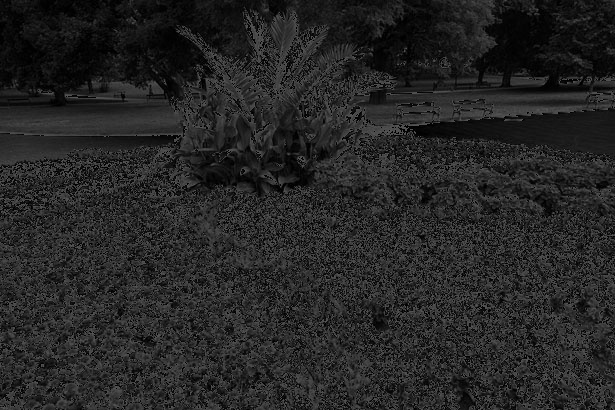
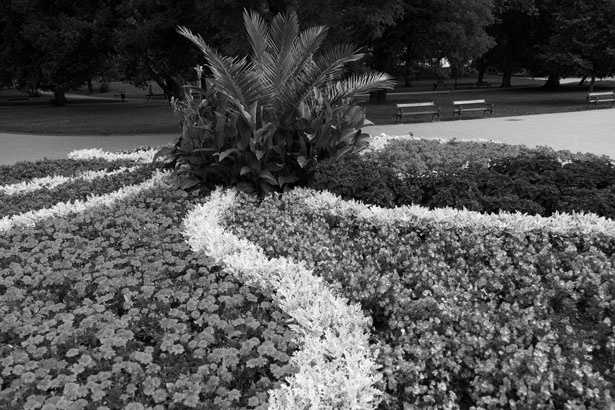
Works better but still not good

diff --git a/test of git.py b/test of git.py
@@ -9,81 +9,182 @@ height, width,  channels = image.shape
 outputForHValue = np.zeros((height, width, channels), np.uint8)
 outputForSValue = np.zeros((height, width, channels), np.uint8)
 outputForIValue = np.zeros((height, width, channels), np.uint8)
+outputForHSIValue = np.zeros((height, width, channels), np.uint8)
 
 imageData = np.asarray(image)
 
-def calculateH():
+# def calculateH():
+#     for i in range(len(imageData)):
+#         for j in range(len(imageData[0])):
+#             pixel = imageData[i][j]
+#             B = pixel[0]
+#             G = pixel[1]
+#             R = pixel[2]
+#              test1 = (R-G)+(R-B)
+#              if test1 > 0:
+#                  test1 = test1 / 2
+#              else:
+#                  test1 = 1
+#                  test1 = test1 / 2
+#              if test1 > 0 and math.sqrt(math.pow(R - G, 2) + (R - B) * (G - B)) > 0:
+#                  test1 = test1 / math.sqrt(math.pow(R - G, 2) + (R - B) * (G - B))
+#              else:
+#                  test1 = 1
+#                  test1 = test1 / (math.sqrt(math.pow(R - G, 2) + (R - B) * (G - B))+1)
+#              if test1 > 0:
+#                  test1 = test1/360
+#              else:
+#                  test1 = 1
+#                  test1 = test1 / 360
+#
+#              hAngle = math.degrees(math.acos(test1))
+#
+#
+#              hValue= 0
+#              if B <= G:
+#                  hValue = hAngle
+#              elif G<B:
+#                  hValue = 360-hAngle
+#              else:
+#                  hValue = 0
+#             outputForHValue[i, j, 0] = hValue
+#             outputForHValue[i, j, 1] = hValue
+#             outputForHValue[i, j, 2] = hValue
+#
+#
+# def calculateS():
+#     for i in range(len(imageData)):
+#         for j in range(len(imageData[0])):
+#             pixel = imageData[i][j]
+#             B = pixel[0]
+#             G = pixel[1]
+#             R = pixel[2]
+#             sValue = 1-(3*min(R, G, B))
+#             outputForSValue[i, j, 0] = sValue
+#             outputForSValue[i, j, 1] = sValue
+#             outputForSValue[i, j, 2] = sValue
+#
+#
+# def calculateI():
+#     for i in range(len(imageData)):
+#         for j in range(len(imageData[0])):
+#             pixel = imageData[i][j]
+#             B = pixel[0]
+#             G = pixel[1]
+#             R = pixel[2]
+#             iValue = (R+G+B)/3
+#             outputForIValue[i, j, 0] = iValue
+#             outputForIValue[i, j, 1] = iValue
+#             outputForIValue[i, j, 2] = iValue
+#
+#
+# calculateH()
+# calculateS()
+# calculateI()
+#math.acos(((R - G) + (R - B) / 2) / (math.sqrt(math.pow(R - G, 2) + ((R - B) * (G - B)))))
+
+
+def calculateH(R, G, B):
+    test1 = (R - G) + (R - B)
+    if test1 > 0:
+        test1 = test1 / 2
+    else:
+        test1 = 1
+        test1 = test1 / 2
+    if test1 > 0 and math.sqrt(math.pow(R - G, 2) + (R - B) * (G - B)) > 0:
+        test1 = test1 / math.sqrt(math.pow(R - G, 2) + (R - B) * (G - B))
+    else:
+        test1 = 1
+        test1 = test1 / (math.sqrt(math.pow(R - G, 2) + (R - B) * (G - B)) + 1)
+    if test1 > 0:
+        test1 = test1 / 360
+    else:
+        test1 = 1
+        test1 = test1 / 360
+
+    hAngle = math.degrees(test1)
+    hValue = hAngle
+    # if B <= G:
+    #     hValue = hAngle
+    # elif G < B:
+    #     hValue = 360 - hAngle
+    # else:
+    #     hValue = 0
+
+    return hValue
+
+    # if s == 0:
+    #     return 0
+    #
+    # elif rgbMax == R:
+    #     return (G-B)/(rgbMax-rgbMin)
+    #
+    # elif rgbMax == G:
+    #     return 2.0 + (B-R)/(rgbMax-rgbMin)
+    #
+    # elif rgbMax == B:
+    #     return 4.0 + (R-G)/(rgbMax-rgbMin)
+    #
+    # else:
+    #     return 0
+
+
+# def calculateS(i, rgbMin, rgbMax):
+#     if rgbMin == rgbMax:
+#         return 0
+#
+#     elif i < 0.5:
+#         return (rgbMax-rgbMin)/(rgbMax+rgbMin)
+#
+#     elif i > 0.5:
+#         return (rgbMax-rgbMin)/(2.0-rgbMax-rgbMin)
+#
+#     else:
+#         return 0
+
+
+def calculateHSI():
     for i in range(len(imageData)):
         for j in range(len(imageData[0])):
             pixel = imageData[i][j]
-            B = pixel[0]
-            G = pixel[1]
-            R = pixel[2]
-            test1 = (R-G)+(R-B)
-            if test1 > 0:
-                test1 = test1 / 2
-            else:
-                test1 = 1
-                test1 = test1 / 2
-            if test1 > 0 and math.sqrt(math.pow(R - G, 2) + (R - B) * (G - B)) > 0:
-                test1 = test1 / math.sqrt(math.pow(R - G, 2) + (R - B) * (G - B))
-            else:
-                test1 = 1
-                test1 = test1 / (math.sqrt(math.pow(R - G, 2) + (R - B) * (G - B))+1)
-            if test1 > 0:
-                test1 = test1/360
-            else:
-                test1 = 1
-                test1 = test1 / 360
+            B = pixel[0]/255
+            G = pixel[1]/255
+            R = pixel[2]/255
 
-            hAngle = math.degrees(math.acos(test1))
-
-
-            hValue= 0
-            if B <= G:
-                hValue = hAngle
-            elif G<B:
-                hValue = 360-hAngle
-            else:
-                hValue = 0
-            outputForHValue[i, j, 0] = hValue
-            outputForHValue[i, j, 1] = hValue
-            outputForHValue[i, j, 2] = hValue
-
-
-def calculateS():
-    for i in range(len(imageData)):
-        for j in range(len(imageData[0])):
-            pixel = imageData[i][j]
-            B = pixel[0]
-            G = pixel[1]
-            R = pixel[2]
-            sValue = 1-(3*min(R, G, B))
-            outputForSValue[i, j, 0] = sValue
-            outputForSValue[i, j, 1] = sValue
-            outputForSValue[i, j, 2] = sValue
-
-
-def calculateI():
-    for i in range(len(imageData)):
-        for j in range(len(imageData[0])):
-            pixel = imageData[i][j]
-            B = pixel[0]
-            G = pixel[1]
-            R = pixel[2]
             iValue = (R+G+B)/3
-            outputForIValue[i, j, 0] = iValue
-            outputForIValue[i, j, 1] = iValue
-            outputForIValue[i, j, 2] = iValue
+            outputForIValue[i, j, 0] = iValue*255
+            outputForIValue[i, j, 1] = iValue*255
+            outputForIValue[i, j, 2] = iValue*255
+
+            sValue = 1-((3*min(R, G, B))/(R+G+B))
+            if np.isnan(sValue):
+                sValue = np.nan_to_num(sValue)
+            outputForSValue[i, j, 0] = sValue*255
+            outputForSValue[i, j, 1] = sValue*255
+            outputForSValue[i, j, 2] = sValue*255
+
+            hValue = calculateH(R, G, B)
+            # if hValue < 0:
+            #     hValue = (hValue*60)+360
+            # else:
+            #     hValue = hValue*60
+            outputForHValue[i, j, 0] = hValue*255
+            outputForHValue[i, j, 1] = hValue*255
+            outputForHValue[i, j, 2] = hValue*255
+
+            print(hValue, sValue, iValue)
+
+            outputForHSIValue[i, j, 0] = hValue
+            outputForHSIValue[i, j, 1] = sValue*255
+            outputForHSIValue[i, j, 2] = iValue*255
 
 
-calculateH()
-calculateS()
-calculateI()
+calculateHSI()
 
 cv2.imwrite('outputHValue.jpg', outputForHValue)
 cv2.imwrite('outputSValue.jpg', outputForSValue)
 cv2.imwrite('outputIValue.jpg', outputForIValue)
+cv2.imwrite('outputHSIValue.jpg', outputForHSIValue)
+print('The code got to here')
 
 #Try to implement this math http://www.niwa.nu/2013/05/math-behind-colorspace-conversions-rgb-hsl/
-#If you can't ask No/Simon
